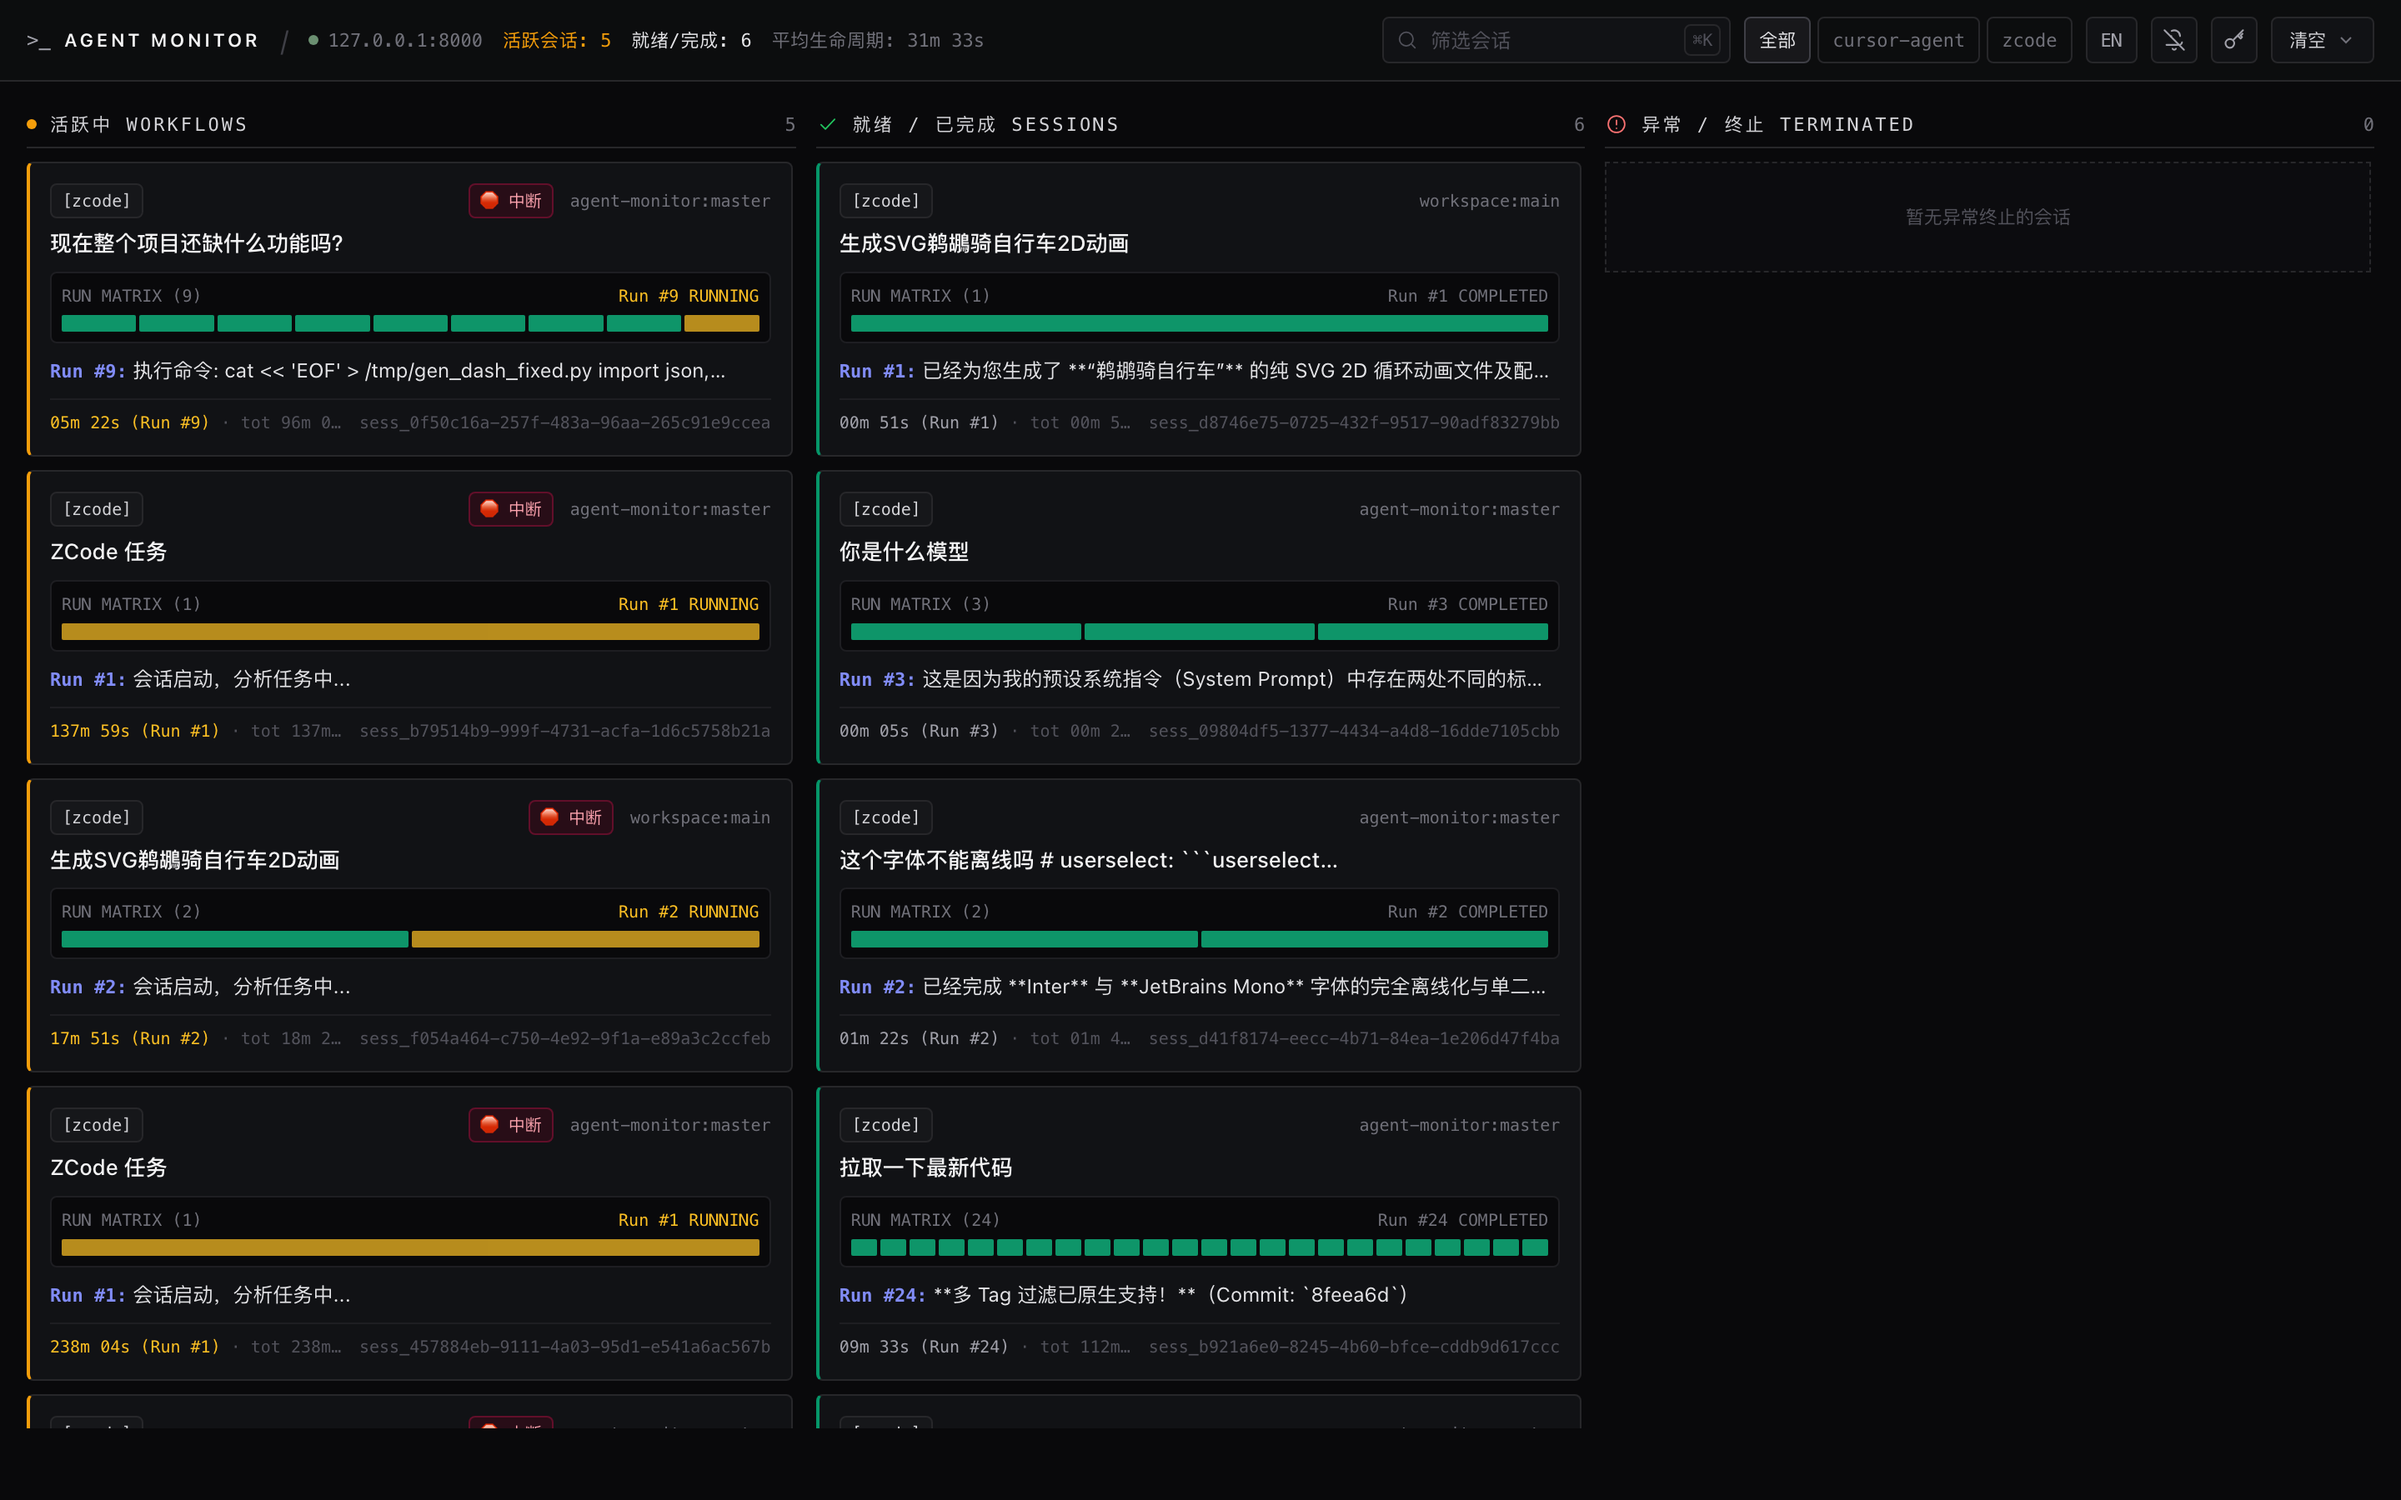
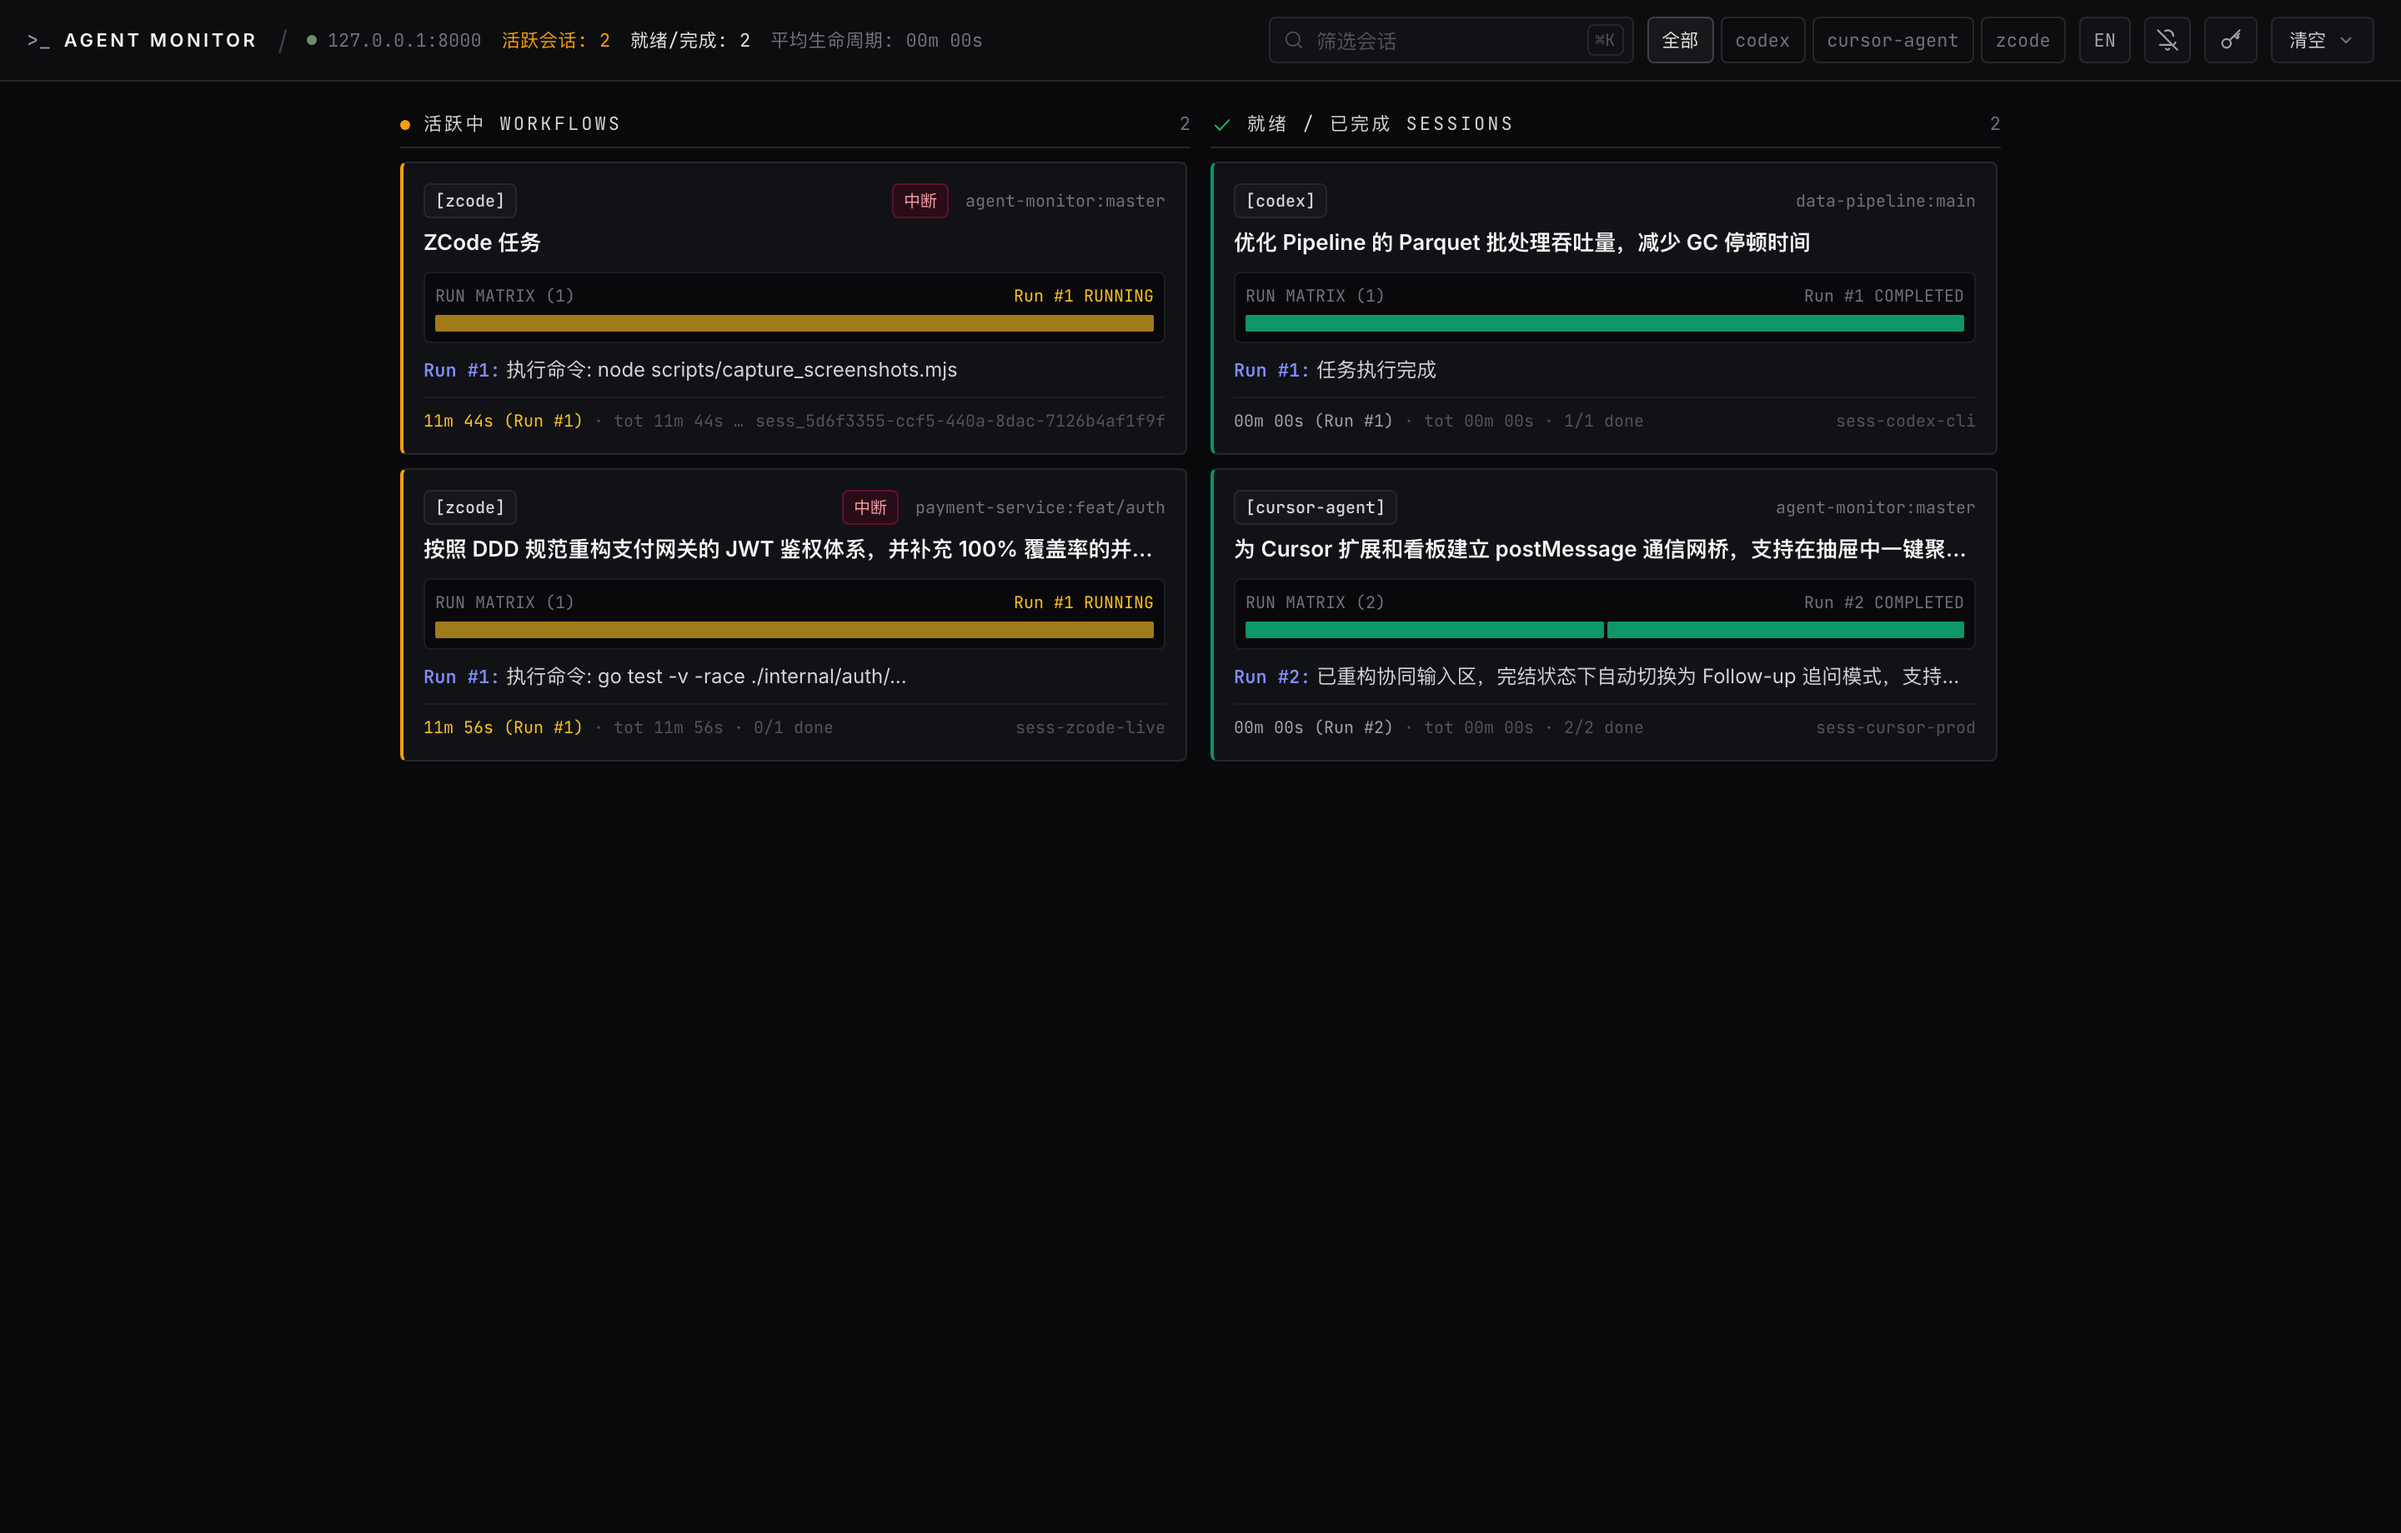
docs: refresh 2x Retina screenshots and document Cursor webview bridge with focus & follow-up features

diff --git a/static/index.html b/static/index.html
@@ -1068,6 +1068,7 @@
 
     function cardHTML(tObj) {
       const runs = getTaskRuns(tObj);
+      const sparklineHTML = renderTickSparkline(runs);
       const latestRun = runs[runs.length - 1] || {};
       const passedCount = runs.filter(r => r.status === 'completed').length;
       const isRunning = tObj.status === 'running';
@@ -1111,7 +1112,6 @@
             class="w-4 h-4 rounded bg-zinc-900 border-line text-indigo-600 focus:ring-0 focus:ring-offset-0 cursor-pointer">
         </div>` : '';
 
-      const isAborting = tObj.controlState === 'abort_requested';
       const abortBtnHTML = isRunning ? `
         <button type="button" onclick="event.stopPropagation(); abortSession('${esc(tObj.id)}')"
           class="px-1.5 py-0.5 rounded border border-rose-900/60 bg-rose-950/40 hover:bg-rose-900/60 text-rose-300 font-mono text-[10px] transition-colors ${isAborting ? 'opacity-75 animate-pulse cursor-wait text-amber-300 border-amber-900/60 bg-amber-950/40' : ''}"

diff --git a/README.md b/README.md
@@ -83,6 +83,8 @@ curl -fsSL https://raw.githubusercontent.com/Zelayan/agent-monitor/main/install.
 - **🔒 多项目 Key 命名空间隔离与鉴权**：支持配置多项目独立 Key (`AGENT_MONITOR_API_KEYS`) 与全局管理员 `Master Key`，实现项目间数据流与操作权限的严格物理隔离。
 - **⏱ 多轮 Run 会话矩阵（Multi-Turn Timeline）**：自动聚合单会话内的多轮交互，按轮次隔离耗时，清晰还原工具调用（Bash、Edit、Read 等）的完整树状轨迹。
 - **🧾 会话短标题（可选 LLM 总结）**：卡片默认展示清洗后的短标题；配置 OpenAI 兼容接口后，每轮收口会异步总结多轮内容并刷新容器标题。会话总目标 `goalSummary` 按可配置间隔（默认每 3 轮，`AGENT_MONITOR_LLM_GOAL_EVERY_N`）刷新，**首轮原文 `rootGoal` 不变**；未配置时零网络。
+- **🎯 Cursor 深度原生联动（Focus & Follow-up Bridge）**：Cursor 插件与内嵌 Webview 之间通过 `postMessage` 搭建双向通信网桥。抽屉顶部支持 **「聚焦 (Focus)」** 一键唤起并定位 Cursor Agent / Composer 面板；底部协同输入区支持运行态实时指引（Live Steer）与完结态一键追问（Follow-up / Next Run），外部独立浏览器环境自动优雅降级为剪贴板。
+- **📊 轮次刻度条（Tick Sparkline Matrix）**：任务卡片内嵌高密度微型刻度条，实时映射多轮交互（Run Matrix）的运行中、成功或中断分布，单卡清晰掌控数十轮执行全貌。
 - **🔍 智能多 Agent 动态嗅探**：首发深度适配 **Cursor**、**ZCode** 与 **Codex (CLI / Desktop)** 全生命周期 Hook，自动推断运行环境；其他 Agent（Claude Code、Aider 等）持续待适配中。
 
 ---

diff --git a/README.en.md b/README.en.md
@@ -83,6 +83,8 @@ In a browser: **[http://127.0.0.1:8000/](http://127.0.0.1:8000/)**
 - **Per-project Key namespaces and auth**: optional per-project keys (`AGENT_MONITOR_API_KEYS`) plus a global admin Master Key, isolating data and operations across projects.
 - **Multi-Turn Timeline**: aggregates many turns in one session, isolates duration per run, and reconstructs the tool tree (Bash, Edit, Read, and so on).
 - **Short session titles (optional LLM)**: cards show a cleaned short title; with an OpenAI-compatible endpoint each run can summarize asynchronously. Session `goalSummary` refreshes every N completed runs (default 3, `AGENT_MONITOR_LLM_GOAL_EVERY_N`); the original `rootGoal` is never rewritten. Unset means no network.
+- **Deep Cursor Native Integration (Focus & Follow-up Bridge)**: a bidirectional `postMessage` bridge connects the Cursor extension and the webview dashboard. Click **Focus** in the drawer to instantly switch to the Agent / Composer panel in Cursor; the collaboration input automatically adapts to **Live Steer** when running and **Follow-up (Next Run)** when completed, with automatic clipboard copy fallback in standalone browsers.
+- **Tick Sparkline Matrix**: compact micro-sparklines embedded in cards visually map running, completed, and failed status across dozens of interaction turns at a glance.
 - **Multi-Agent sniffing**: first-class lifecycle Hooks for **Cursor**, **ZCode**, and **Codex (CLI / Desktop)**; other Agents (Claude Code, Aider, and more) are still being adapted.
 
 ---

diff --git a/docs/INSTALLATION.md b/docs/INSTALLATION.md
@@ -24,7 +24,8 @@
   - 自动检测并拉起本地 `agent-monitor` 守护进程，无需手动启动服务；
   - 提供一键注入工作区 `.cursor/hooks.json` 命令，自动绑定绝对路径，杜绝 PATH 缺失；
   - 底部状态栏秒表计时，实时显示 Agent 运行与耗时；
-  - 在 Cursor 内部直接分栏或在左侧活动栏查看 Agent Monitor 看板。
+  - 在 Cursor 内部直接分栏或在左侧活动栏查看 Agent Monitor 看板；
+  - **双向通信网桥**：抽屉一键「聚焦 (Focus)」直达对应 Agent / Composer 窗口，支持完结任务直接「追问 (Follow-up)」开启下一轮。
 
 ### 安装方法
 1. 从 Releases 下载最新的 `agent-monitor-cursor-*.vsix`；
